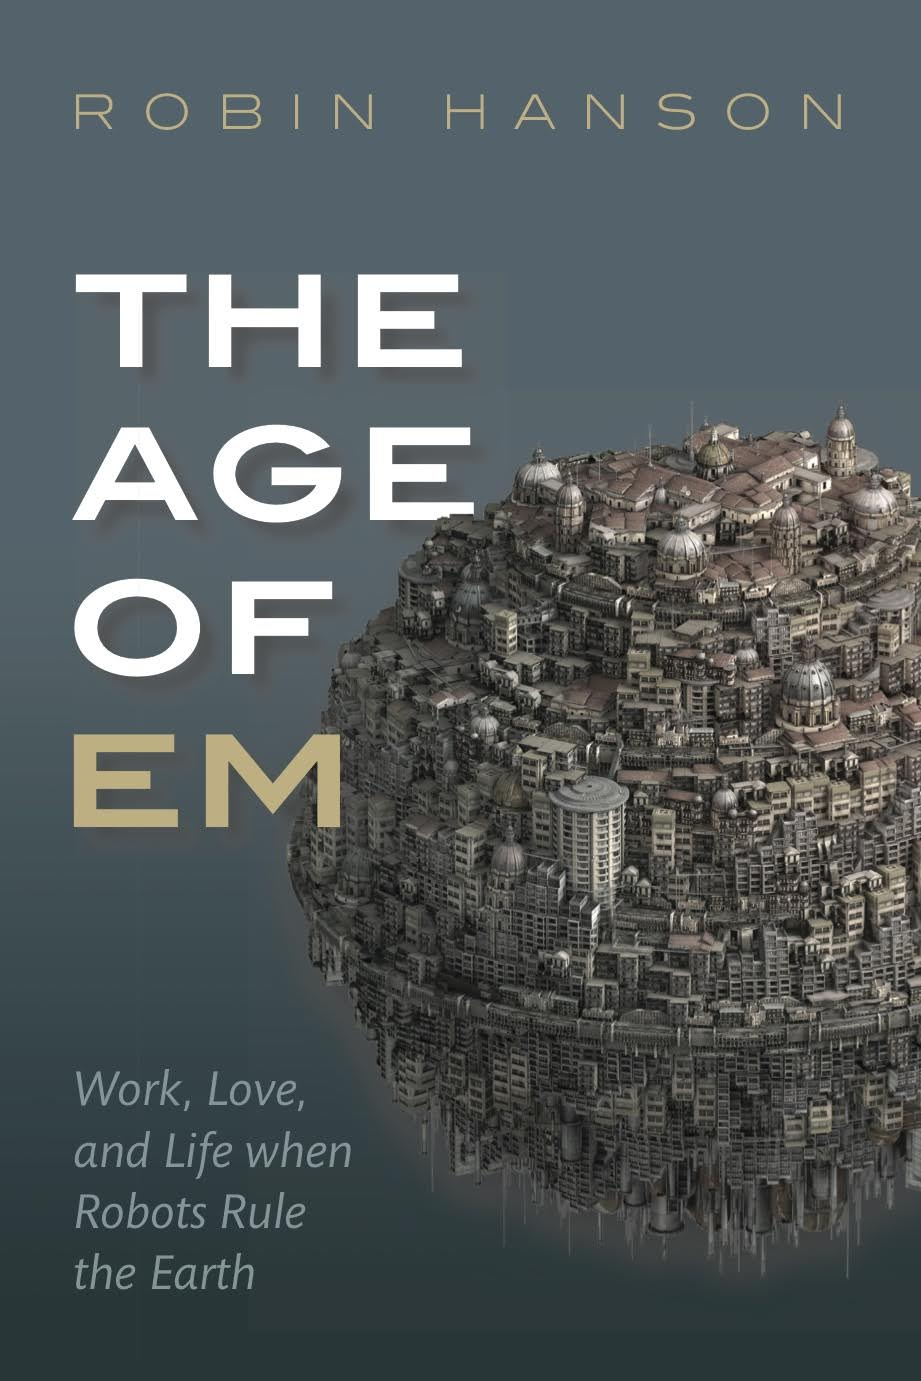
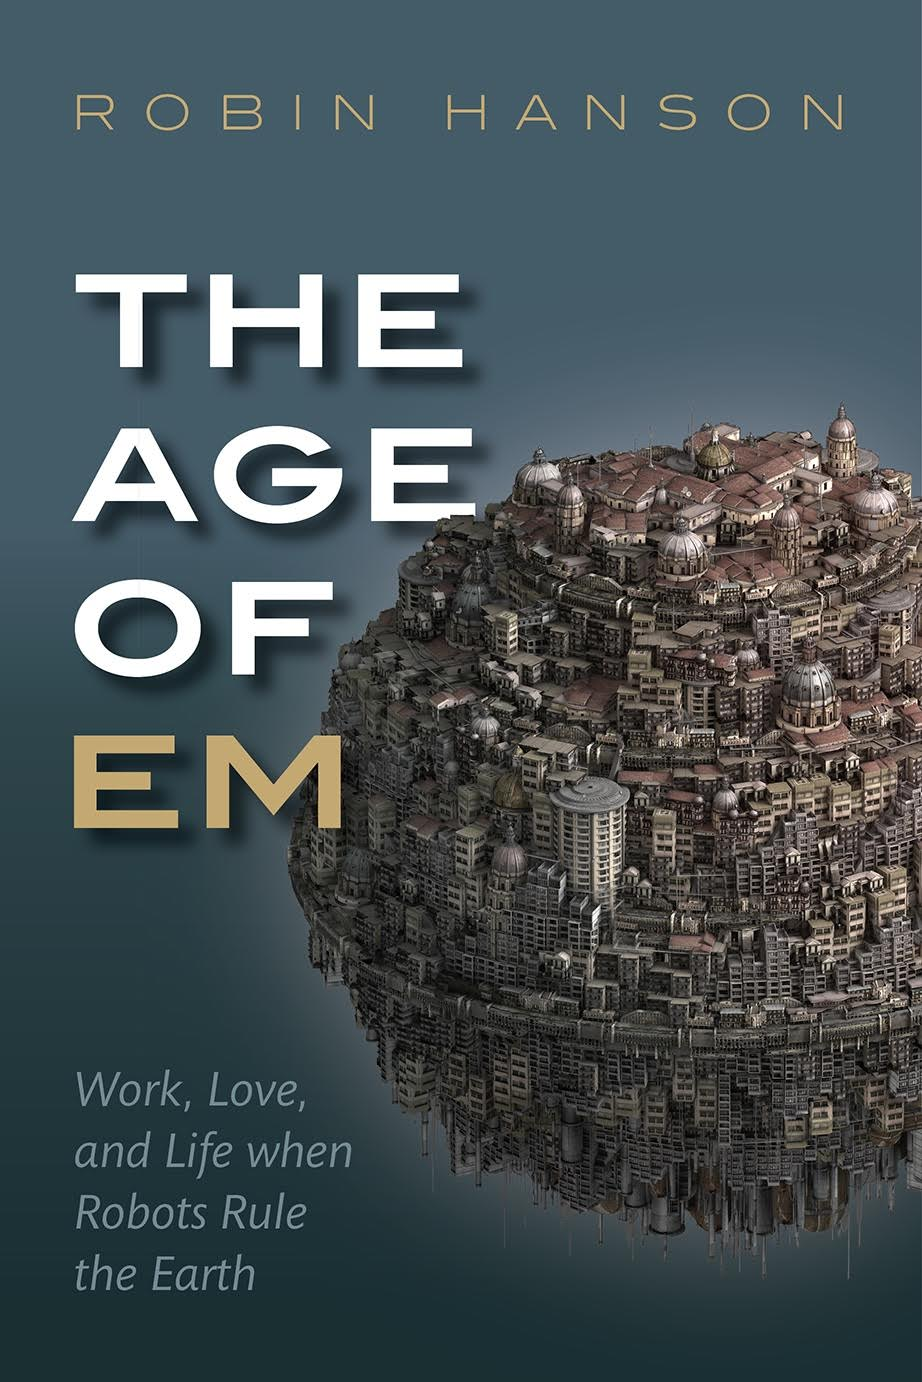
update

diff --git a/index.html b/index.html
@@ -1,4 +1,7 @@
-<!DOCTYPE html><head><meta charset="utf-8"><meta name="description" content="The Age of Em by Robin Hanson: the first truly smart robots will be brain emulations b ems."><link rel="stylesheet" href="https://maxcdn.bootstrapcdn.com/font-awesome/4.4.0/css/font-awesome.min.css"><link rel="stylesheet" href="style/layout.css"><title>The Age of Em, A Book</title><link rel="stylesheet" type="text/css" href="style/index.css"></head><body><header><nav><a href="/">home</a><a href="./talks.html">talks</a><a href="./articles.html">articles</a><a href="https://www.facebook.com/robin.hanson.754"><i class="fa fa-facebook-official"></i></a><a href="https://twitter.com/robinhanson"><i class="fa fa-twitter-square"></i></a></nav></header><main><img id="cover" src="cover.jpg" alt="Cover Image"><div id="publisher"><a href="https://www.ox.ac.uk">Oxford University Press</a>, <time>March 2016</time></div><section id="summary"><p><span id="lead">Robots may one day rule the world</span>, but what is a robot-ruled Earth like?</p><p>Many think the first truly smart robots will be brain emulations or <b>ems</b>.
+<!DOCTYPE html><head><meta charset="utf-8"><meta name="description" content="The Age of Em by Robin Hanson: the first truly smart robots will be brain emulations b ems."><link rel="stylesheet" href="https://maxcdn.bootstrapcdn.com/font-awesome/4.4.0/css/font-awesome.min.css"><link rel="stylesheet" href="style/layout.css"><title>The Age of Em, A Book</title><link rel="stylesheet" type="text/css" href="style/index.css"></head><body><header><nav><a href="/">home</a><a href="./talks.html">talks</a><a href="./articles.html">articles</a><a href="https://www.facebook.com/robin.hanson.754"><i class="fa fa-facebook-official"></i></a><a href="https://twitter.com/robinhanson"><i class="fa fa-twitter-square"></i></a></nav></header><main><img id="cover" src="cover.jpg" alt="Cover Image"><div id="publisher"><a href="https://www.ox.ac.uk">Oxford University Press</a>, <time>March 2016</time></div><div id="cover-explain">(Cover image is
+<a href="http://www.framebox.com/creations/habitat">Habitat</a>
+by Till Nowak)
+</div><section id="summary"><p><span id="lead">Robots may one day rule the world</span>, but what is a robot-ruled Earth like?</p><p>Many think the first truly smart robots will be brain emulations or <b>ems</b>.
 Scan a human brain, then run a model with the same connections on a fast computer,
 and you have a robot brain, but recognizably human.</p><p>Train an em to do some job and copy it a million times:
 an army of workers is at your disposal.

diff --git a/style/index.css b/style/index.css
@@ -8,13 +8,23 @@
 }
 #publisher {
   margin-top: 0.5em;
-  margin-bottom: -1em;
   text-align: center;
   font-size: 120%;
   font-style: italic;
 }
 #publisher time {
   font-weight: bold;
+}
+#cover-explain {
+  color: #888;
+  font-style: italic;
+  text-align: center;
+}
+#cover-explain a {
+  color: #448;
+}
+main #summary {
+  margin-top: 0;
 }
 main #summary #lead {
   font-size: 120%;
